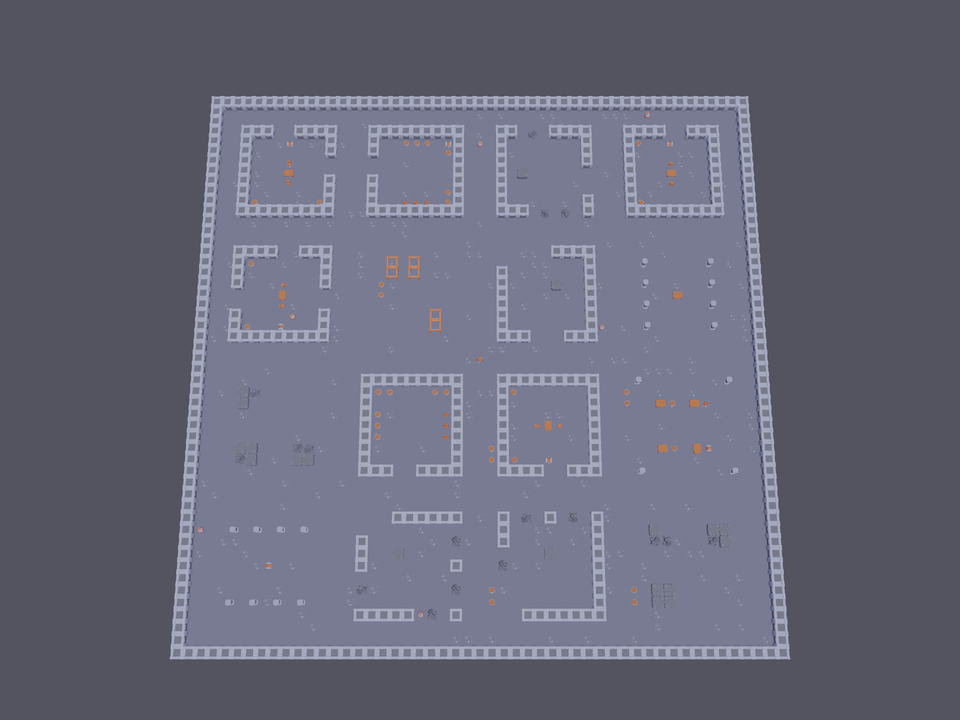
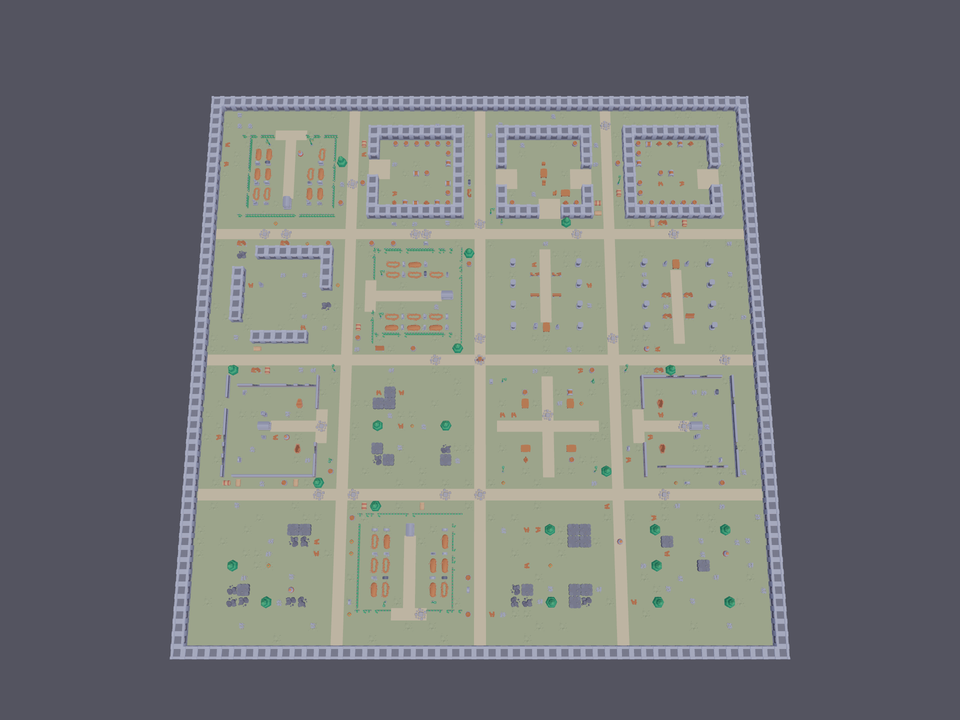
v2 defaults: 8 context frames, runs/wm_v2; README updated for new map and dataset

diff --git a/wm_server/train.py b/wm_server/train.py
@@ -1,8 +1,8 @@
 """Train the diffusion world model.
 
   python prepare_data.py --raw data/raw --out data/packed                 # once
-  torchrun --nproc_per_node 4 train.py --data data/packed --out runs/wm   # 4 GPUs
-  python train.py --data data/packed --out runs/wm                        # 1 GPU
+  torchrun --nproc_per_node 4 train.py --data data/packed --out runs/wm_v2   # 4 GPUs
+  python train.py --data data/packed --out runs/wm_v2                        # 1 GPU
 
 Re-running the same command resumes from <out>/last.pt. Every --eval-every steps an
 autoregressive rollout on validation episodes is saved to <out>/samples/ (top: real, bottom: model).
@@ -30,14 +30,14 @@ from wm.rollout import comparison_strip, rollout
 def parse():
     ap = argparse.ArgumentParser()
     ap.add_argument("--data", default="data/packed")
-    ap.add_argument("--out", default="runs/wm")
+    ap.add_argument("--out", default="runs/wm_v2")
     ap.add_argument("--steps", type=int, default=150_000)
     ap.add_argument("--batch", type=int, default=16, help="per GPU")
     ap.add_argument("--lr", type=float, default=2e-4)
     ap.add_argument("--warmup", type=int, default=2000)
     ap.add_argument("--weight-decay", type=float, default=1e-2)
     ap.add_argument("--ema", type=float, default=0.999)
-    ap.add_argument("--context", type=int, default=4)
+    ap.add_argument("--context", type=int, default=8, help="past frames the model sees (8 = ~0.5 s)")
     ap.add_argument("--channels", default="64,64,128,256,256")
     ap.add_argument("--workers", type=int, default=8, help="dataloader workers per GPU")
     ap.add_argument("--log-every", type=int, default=100)

diff --git a/wm_server/compare_rollout.py b/wm_server/compare_rollout.py
@@ -45,7 +45,7 @@ def label(frames, text):
 
 def main():
     ap = argparse.ArgumentParser()
-    ap.add_argument("--ckpt", default="runs/wm/last.pt")
+    ap.add_argument("--ckpt", default="runs/wm_v2/last.pt")
     ap.add_argument("--episode", default=None, help="episode .npz (default: a validation episode from data/raw)")
     ap.add_argument("--raw", default="data/raw")
     ap.add_argument("--start", type=int, default=100, help="first context frame")

diff --git a/README.md b/README.md
@@ -4,7 +4,7 @@
 
 **키보드 입력을 받아 다음 게임 화면을 "상상해서" 그려내는 신경망(월드모델)을 처음부터 끝까지 직접 만들어 보는 프로젝트**입니다.
 
-게임 엔진 없이도 게임처럼 동작하는 모델을 만드는 것이 목표입니다. 이를 위해 작은 탑다운 액션 게임을 직접 만들고, 스크립트 봇이 그 게임을 플레이한 기록(화면 + 키 입력) 20만 프레임을 모아, 확산(diffusion) 모델이 **"지금까지의 화면 + 지금 누른 키 → 다음 화면"** 을 학습하게 합니다. 학습이 끝나면 실제 게임 대신 모델이 매 프레임을 생성하고, 사람은 그 안에서 WASD와 Space로 플레이할 수 있습니다.
+게임 엔진 없이도 게임처럼 동작하는 모델을 만드는 것이 목표입니다. 이를 위해 작은 탑다운 액션 게임을 직접 만들고, 스크립트 봇과 사람이 그 게임을 플레이한 기록(화면 + 키 입력) 약 22만 프레임을 모아, 확산(diffusion) 모델이 **"지금까지의 화면 + 지금 누른 키 → 다음 화면"** 을 학습하게 합니다. 학습이 끝나면 실제 게임 대신 모델이 매 프레임을 생성하고, 사람은 그 안에서 WASD와 Space로 플레이할 수 있습니다.
 
 ```
 게임 (Panda3D, Kenney 에셋)  →  봇 플레이 데이터 수집  →  서버에서 학습 (4×GPU)  →  로컬에서 모델 안에서 플레이
@@ -16,7 +16,7 @@
 | 캐릭터 | 맵 (51×51 타일, 시드마다 생성) |
 |---|---|
 | ![캐릭터](docs/characters.png) | ![맵 전체](docs/map.png) |
-| 왼쪽부터 스켈레톤(1방), 플레이어, 좀비(2방) | 구역마다 집·창고·기둥 홀·폐허·시장 등을 배치 |
+| 왼쪽부터 스켈레톤(1방), 플레이어, 좀비(2방) | 모래색 길이 구역 사이를 격자로 잇고, 구역마다 묘지·묘실·집·창고·예배당·시장·숲 등을 배치 |
 
 - **조작**: WASD 이동, Space 공격, E 포션 줍기 — 월드모델이 배울 행동은 이 6개 키뿐
 - **규칙**: 체력 10, 몬스터가 다가와 공격, 공격하면 처치, 포션으로 회복
@@ -77,17 +77,23 @@ python play.py --record           # 플레이를 학습 데이터 형식으로 d
 - 렌더링 320×240 (2배 슈퍼샘플링), 화면에는 960×720으로 확대 표시 (`--display 1280x960` 등으로 변경)
 - 15 fps 고정 틱
 - 몬스터: 스켈레톤(1방, 빠름) 60% / 좀비(2방, 느림) 40%, 최대 9마리
-- 맵: 51×51 타일, 4×4 구역(집/창고/기둥 홀/폐허/바위/시장/목재 야적장), 시드마다 다름
+- 맵: 51×51 타일, 4×4 구역(묘지/묘실 마당/집/창고/예배당/폐허/바위 정원/시장/목재 야적장/숲), 시드마다 다름
+- 이끼 초록 바닥 + 모래색 길(구역 사이 도로와 각 구역 입구), 밟고 지나가는 잔해·무덤 자리 장식
 
 ## 3. 데이터 수집 (봇)
 
-이번 데이터셋(약 20만 프레임, 3.9GB)은 아래 명령으로 만들었습니다.
+현재 데이터셋(v2, 약 22만 프레임, 6.2GB):
+
+| 구성 | 에피소드 | 프레임 | 비율 |
+|---|---|---|---|
+| 봇 (몬스터 사냥 + 가끔 허공 공격, 30%는 망설임 없는 매끄러운 봇) | 190 | 190,000 | 85% |
+| 사람이 직접 플레이 (`play.py --record`) | 14 | 19,734 | 9% |
+| 공격 없이 가만히 서서 죽기 (사망 장면용) | 48 | 12,655 | 6% |
 
 ```bash
-# 일반 봇 + 매끄러운 봇(30%) — 몬스터 사냥, 허공 공격 가끔
-python collect.py --episodes 330 --workers 4 --smooth-frac 0.3 --out wm_server/data/raw   # 190개에서 중단
-# 공격 없이 가만히 서서 죽는 에피소드 (사망 장면용, 약 1만 프레임)
+python collect.py --episodes 190 --workers 4 --smooth-frac 0.3 --out wm_server/data/raw
 python collect.py --episodes 48 --passive --seed 20000 --workers 4 --out wm_server/data/raw
+python play.py --record --out wm_server/data/raw     # 직접 플레이 (1분 = 900프레임)
 
 # 봇 플레이 구경 (저장 안 함)
 python collect.py --episodes 1 --show --no-save
@@ -111,21 +117,21 @@ python collect.py --episodes 1 --show --no-save
 cd wm_server
 pip install -r requirements.txt
 
-# 1) 에피소드들을 학습용 배열로 변환 (1회, 약 46GB 디스크 필요)
+# 1) 에피소드들을 학습용 배열로 변환 (1회, 약 51GB 디스크 필요)
 python prepare_data.py --raw data/raw --out data/packed
 
 # 2) 학습
-torchrun --nproc_per_node 4 train.py --data data/packed --out runs/wm
-# GPU 1장: python train.py --data data/packed --out runs/wm
+torchrun --nproc_per_node 4 train.py --data data/packed --out runs/wm_v2
+# GPU 1장: python train.py --data data/packed --out runs/wm_v2
 ```
 
-- 같은 명령을 다시 실행하면 `runs/wm/last.pt` 에서 이어서 학습합니다.
+- 같은 명령을 다시 실행하면 `<out>/last.pt` 에서 이어서 학습합니다. 설정(과거 프레임 수 등)을 바꿔 새로 학습할 때는 `--out` 폴더를 새로 지정하세요.
 - 로그의 `samples/s` 로 전체 학습 시간을 가늠할 수 있습니다 (기본 15만 스텝).
-- 5000 스텝마다 `runs/wm/samples/step_XXXXXX.png` 저장: 검증 에피소드에서 실제 키 입력으로 45프레임을 이어 생성한 결과 (각 쌍의 **위: 실제, 아래: 모델**).
+- 5000 스텝마다 `<out>/samples/step_XXXXXX.png` 저장: 검증 에피소드에서 실제 키 입력으로 45프레임을 이어 생성한 결과 (각 쌍의 **위: 실제, 아래: 모델**).
 - 메모리 부족 시 `--batch 8` (기본은 GPU당 16).
-- 주요 옵션: `--steps`, `--lr`, `--context`(과거 프레임 수, 기본 4), `--channels`(기본 `64,64,128,256,256`), `--compile`.
+- 주요 옵션: `--steps`(기본 15만), `--lr`, `--context`(과거 프레임 수, 기본 8 = 약 0.5초), `--channels`(기본 `64,64,128,256,256`), `--compile`.
 
-결과물: `runs/wm/last.pt` (EMA 가중치 포함), `runs/wm/step_XXXXXX.pt` (2.5만 스텝마다 스냅샷).
+결과물: `runs/wm_v2/last.pt` (EMA 가중치 포함), `runs/wm_v2/step_XXXXXX.pt` (2.5만 스텝마다 스냅샷).
 
 ### 긴 롤아웃 비교 (재학습 없이 생성 설정만 바꿔 보기)
 
